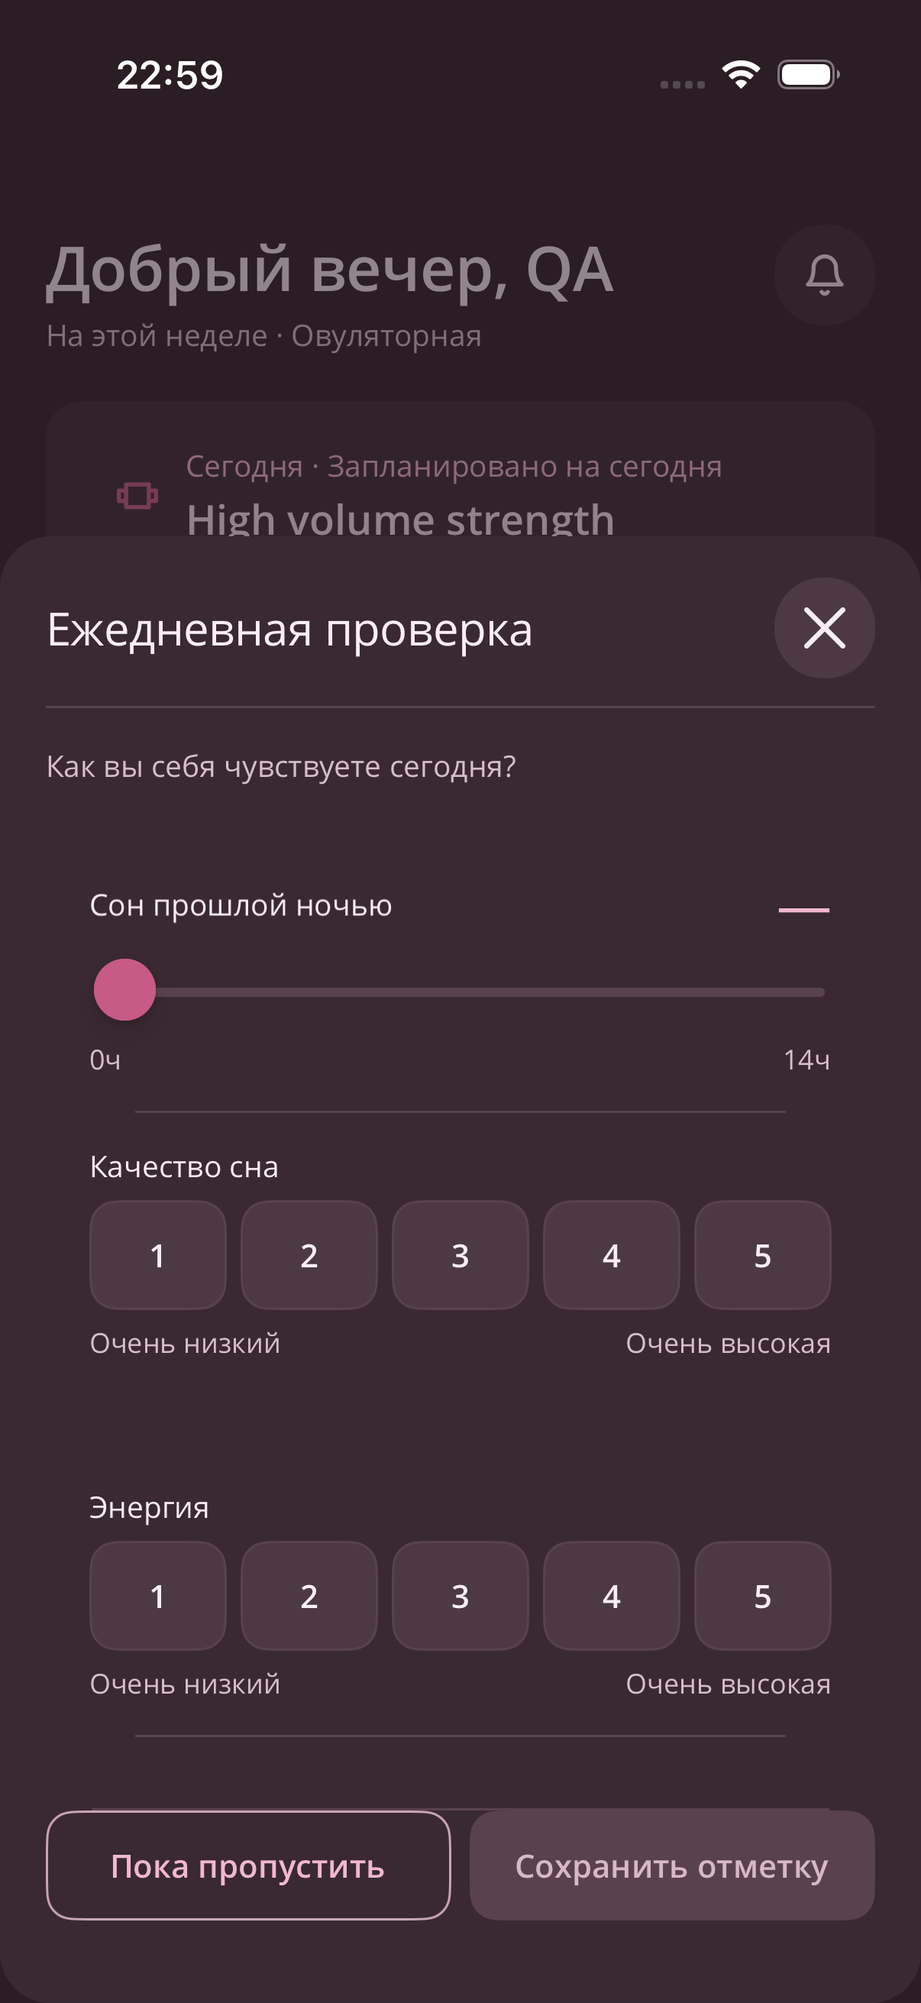
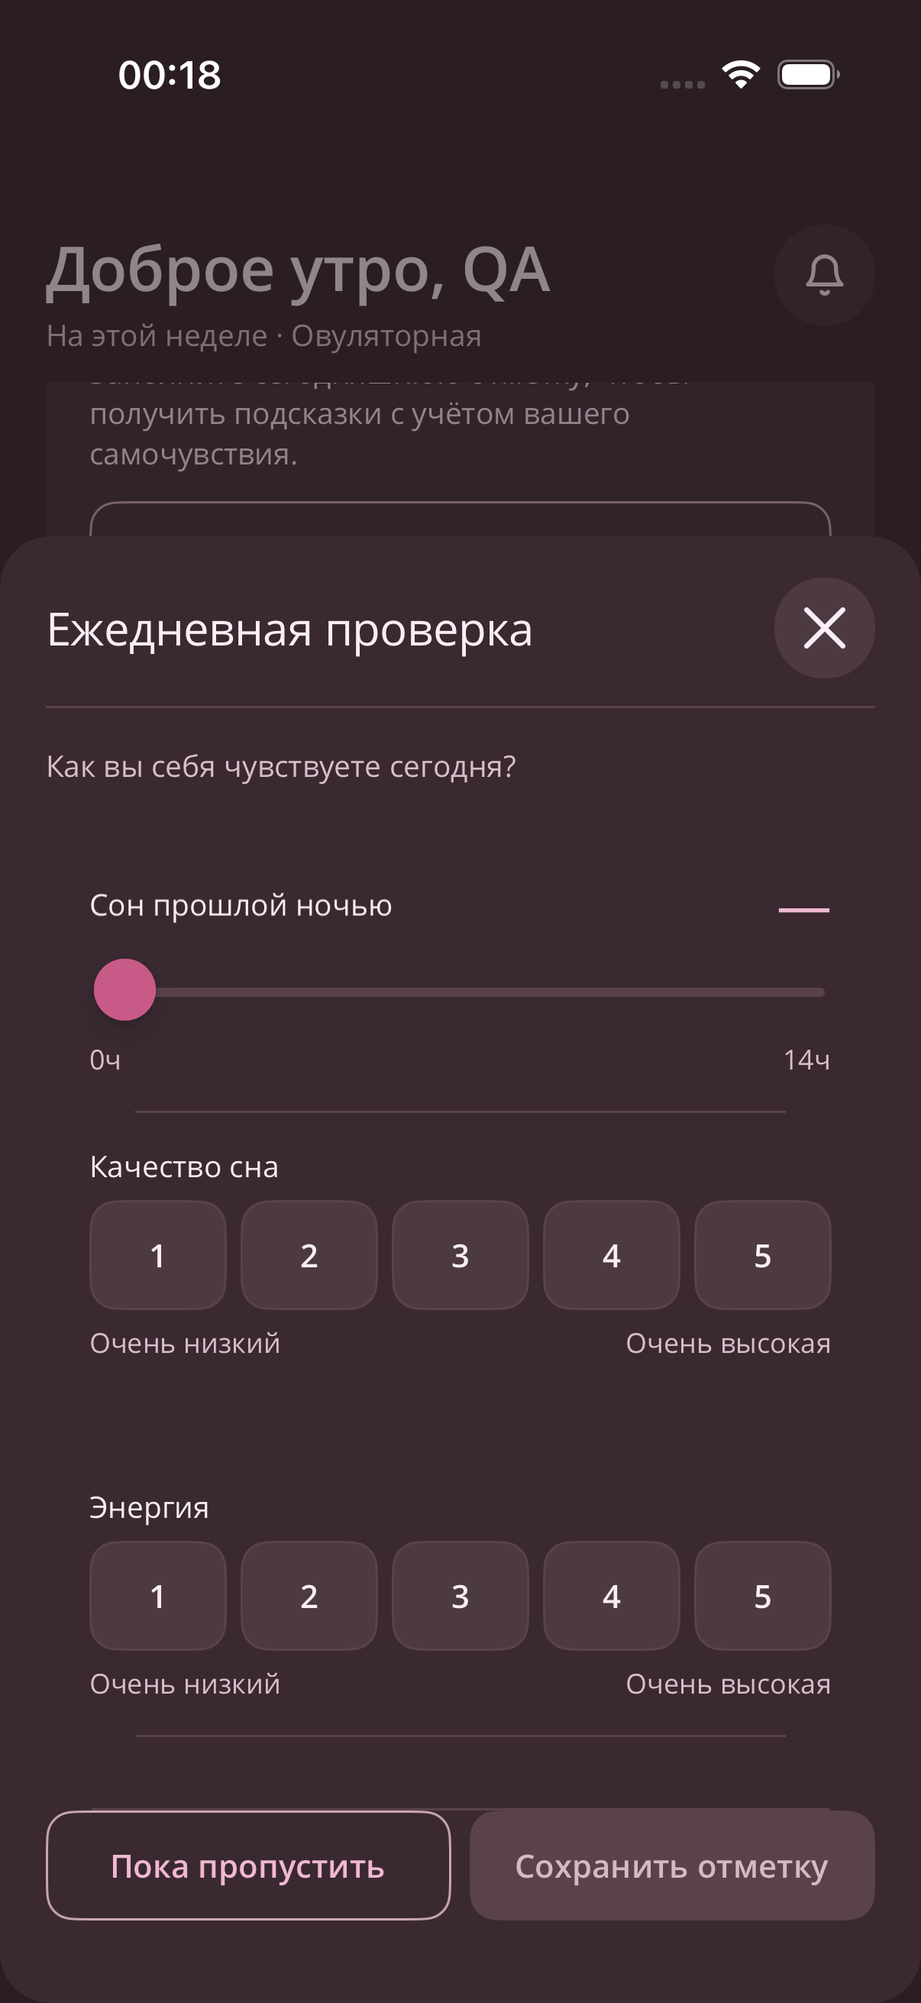
Open the nutrition diary from its header entry and prove the toast hosts
The `Дневник питания` label only simulated a link: a tap gesture on a label,
which the QA audit could not drive and which gave a dead end on the one page
that reaches the note-save toast. It is now a real Button in the `Еда` header
row with a click handler that routes to the diary and reports a visible
message if the route fails, guarded by a contract test.

The working path closes the last Wave A proof: notes save raises the toast on
the food log and on workout history, in both themes, above the tab bar and the
pinned sheet footer, and the check-in footer is captured at rest in dark.

diff --git a/src/MuscleCuties.UI/Pages/Nutrition/NutritionPage.xaml b/src/MuscleCuties.UI/Pages/Nutrition/NutritionPage.xaml
@@ -65,19 +65,14 @@
                             Text="{loc:LocalizedText Nutrition_Page_Meals}"
                             IconGlyph="BowlChopsticks24"
                             Margin="0" />
-                        <Label Grid.Column="1"
-                               Text="{loc:LocalizedText Nutrition_FoodLog_DailyFoodLog}"
-                               Style="{StaticResource AccentLabel}"
-                               MinimumHeightRequest="{StaticResource PresentationMinimumTouchSize}"
-                               VerticalTextAlignment="Center"
-                               HorizontalTextAlignment="End"
-                               LineBreakMode="WordWrap"
-                               SemanticProperties.Description="{loc:LocalizedText Nutrition_FoodLog_DailyFoodLog}"
-                               SemanticProperties.Hint="{loc:LocalizedText Nutrition_Page_OpensDailyFoodLog}">
-                            <Label.GestureRecognizers>
-                                <TapGestureRecognizer Command="{Binding NavigateToFoodLogCommand}" />
-                            </Label.GestureRecognizers>
-                        </Label>
+                        <Button Grid.Column="1"
+                                AutomationId="OpenFoodLog"
+                                Text="{loc:LocalizedText Nutrition_FoodLog_DailyFoodLog}"
+                                Style="{StaticResource ButtonSecondary}"
+                                HorizontalOptions="End"
+                                Clicked="OnOpenDailyFoodLogClicked"
+                                SemanticProperties.Description="{loc:LocalizedText Nutrition_FoodLog_DailyFoodLog}"
+                                SemanticProperties.Hint="{loc:LocalizedText Nutrition_Page_OpensDailyFoodLog}" />
                     </Grid>
 
                     <Border

diff --git a/tests/MuscleCuties.Core.Tests/UiContractGuardTests.cs b/tests/MuscleCuties.Core.Tests/UiContractGuardTests.cs
@@ -342,6 +342,46 @@ public sealed class UiContractGuardTests
     }
 
     /// <summary>
+    /// `Дневник питания` is a real button in the section header beside `Еда`, not a tap gesture, and it
+    /// routes through the page's click handler, which reports a visible message instead of failing
+    /// silently. The entry is checked by a cold-launch simulator run; this guard fails if it regresses.
+    /// </summary>
+    [Fact]
+    public void The_daily_log_entry_is_a_real_button_that_routes()
+    {
+        var root = RepositoryRoot();
+        var pagePath = Path.Combine(root, "src", "MuscleCuties.UI", "Pages", "Nutrition", "NutritionPage.xaml");
+        var document = XDocument.Load(pagePath);
+        XNamespace maui = "http://schemas.microsoft.com/dotnet/2021/maui";
+
+        var entry = document.Descendants()
+            .Single(element =>
+                string.Equals((string?)element.Attribute("AutomationId"), "OpenFoodLog", StringComparison.Ordinal));
+
+        Assert.Equal("Button", entry.Name.LocalName);
+        Assert.Equal("OnOpenDailyFoodLogClicked", (string?)entry.Attribute("Clicked"));
+        Assert.Equal("1", (string?)entry.Attributes().Single(attribute => attribute.Name.LocalName == "Grid.Column"));
+
+        // The design position: the section header beside `Еда`.
+        var header = entry.Parent;
+        Assert.NotNull(header);
+        Assert.Contains(
+            header!.Elements(),
+            sibling => sibling.Name.LocalName == "IconSectionHeader");
+
+        Assert.DoesNotContain(
+            document.Descendants(maui + "TapGestureRecognizer")
+                .Select(gesture => (string?)gesture.Attribute("Command")),
+            command => command?.Contains("NavigateToFoodLog", StringComparison.Ordinal) == true);
+
+        var codeBehind = File.ReadAllText(
+            Path.Combine(root, "src", "MuscleCuties.UI", "Pages", "Nutrition", "NutritionPage.xaml.cs"));
+        Assert.Contains("OnOpenDailyFoodLogClicked", codeBehind, StringComparison.Ordinal);
+        Assert.Contains("GoToAsync(NutritionNavigation.FoodLogRoute)", codeBehind, StringComparison.Ordinal);
+        Assert.Contains("ReportDiaryNavigationFailure", codeBehind, StringComparison.Ordinal);
+    }
+
+    /// <summary>
     /// A Debug build points at `http://127.0.0.1:5080`. When that API is down or has no migrated
     /// catalogue it answers with an empty page, and the picker showed a permanent no-match state with
     /// no rows to tap (D51's root cause). The loopback store must therefore be able to fill the gap.

diff --git a/src/MuscleCuties.UI/ViewModels/Nutrition/NutritionViewModel.cs b/src/MuscleCuties.UI/ViewModels/Nutrition/NutritionViewModel.cs
@@ -1,4 +1,5 @@
 using System.Collections.ObjectModel;
+using System.Diagnostics;
 using System.Diagnostics.CodeAnalysis;
 using System.Globalization;
 using CommunityToolkit.Mvvm.ComponentModel;
@@ -6,6 +7,7 @@ using CommunityToolkit.Mvvm.Input;
 using MuscleCuties.Core.Models.Enums.Cycle;
 using MuscleCuties.Core.Models.Enums.Nutrition;
 using MuscleCuties.UI.Models.UI.Cycle;
+using MuscleCuties.UI.Navigation;
 using MuscleCuties.UI.Models.UI.Nutrition;
 using MuscleCuties.UI.Services.Formatting;
 using MuscleCuties.UI.Services.Dashboard;
@@ -662,9 +664,23 @@ public partial class NutritionViewModel : ObservableObject, IPageLoadAware, IDis
     [RelayCommand]
     public async Task NavigateToFoodLogAsync()
     {
-        if (_navigateAsync is not null)
-            await _navigateAsync("FoodLogPage");
+        if (_navigateAsync is null)
+            return;
+
+        try
+        {
+            await _navigateAsync(NutritionNavigation.FoodLogRoute);
+        }
+        catch (Exception exception)
+        {
+            Trace.TraceError($"[Nutrition] Food log navigation failed: {exception.GetType().Name}");
+            ReportDiaryNavigationFailure();
+        }
     }
+
+    /// <summary>A dead entry point states so instead of leaving the page unchanged and silent.</summary>
+    public void ReportDiaryNavigationFailure() =>
+        ShowPageStatus(UiTextCatalog.Get("Ui_Nutrition_Error_LoadFoods"));
 
     public void Dispose()
     {

diff --git a/src/MuscleCuties.UI/Pages/Nutrition/NutritionPage.xaml.cs b/src/MuscleCuties.UI/Pages/Nutrition/NutritionPage.xaml.cs
@@ -32,6 +32,19 @@ public partial class NutritionPage : ContentPage
         this.BeginDeferredLoad(LoadDeferredCardsAsync);
     }
 
+    private async void OnOpenDailyFoodLogClicked(object? sender, EventArgs e)
+    {
+        try
+        {
+            await Shell.Current.GoToAsync(NutritionNavigation.FoodLogRoute);
+        }
+        catch (Exception exception)
+        {
+            Trace.TraceError($"[Nutrition] Diary navigation failed: {exception.GetType().Name}");
+            _viewModel.ReportDiaryNavigationFailure();
+        }
+    }
+
     private async Task LoadDeferredCardsAsync()
     {
         await PhaseFocusLazy.LoadIfNeededAsync(true);

diff --git a/STATUS.md b/STATUS.md
@@ -2,74 +2,86 @@
 
 ## 1. Changed files
 
-Nine commits on `fix/qa-audit-followups`; the D54 fix stays its own commit.
+Nine commits stand unchanged on the branch, plus this pass on top of `41bb3f6f`:
 
-- `19887dca` — restored `docs/release-audit/2026-11-05/WORKOUT_POLICY.md` (D16).
-- `cd65f85d` — one 24-hour `MealTime` formatter (D48's 12-hour half).
-- `3a2daf1e` — the pre-existing shared-primitives base.
-- `f28aa3b1` — **D54**, meal card header gap.
-- `3b55255c` — modal frame: `ModalKeyboardInset`, one scroll body, keyboard padding.
-- `7023dc81` — reveal content under the focused field, 12 pt sheet footer reserve, toast clearance
-  token, picker search mode.
-- this pass (`Wave A close-out`), uncommitted until the commit below:
-  - `Controls/Shared/AnimatedModalView.cs` — `FindScrollBody` reuses a sheet's own nested `ScrollView`
-    instead of wrapping it (the check-in sheet's pinned footer was being pushed off-screen by a
-    second body).
-  - `Resources/Styles/Styles.xaml` — `PresentationPageContentPadding` bottom 32 → 96 so page content
-    clears the floating tab bar (D37 at rest).
-  - `Controls/Nutrition/MealEditorModal.xaml` — named rows for search mode; the search pane gets an
-    opaque background so the ingredient list cannot show through real result rows.
-  - `Controls/Nutrition/MealEditorModal.xaml.cs` — search mode on focus/blur; submit no longer
-    unfocuses the field.
-  - `ViewModels/Nutrition/NutritionViewModel.Search.cs` / `.Notifications.cs` — 400 ms debounced
-    search on typing, so hits appear while the keys are up (D51).
-  - `Services/Nutrition/LoopbackFoodCatalogSearchStore.cs` (new), `UseCases/.../DevelopmentFoodCatalog.cs`
-    (new), `Composition/ApplicationCompositionExtensions.cs` — a Debug loopback build falls back to a
-    synthetic catalogue when the local API answers empty; production and Beta keep the cloud store.
-  - `tests/MuscleCuties.Core.Tests/DevelopmentFoodCatalogTests.cs` (4 tests),
-    `UiContractGuardTests.cs` (+4 guards).
+- `src/MuscleCuties.UI/Pages/Nutrition/NutritionPage.xaml` — the `Дневник питания` entry is a real
+  `Button` (`AutomationId="OpenFoodLog"`, `ButtonSecondary`, `HorizontalOptions="End"`) in the `Еда`
+  section header beside `IconSectionHeader`, wired to `Clicked="OnOpenDailyFoodLogClicked"`. The
+  previous `Label` + `TapGestureRecognizer` is gone.
+- `src/MuscleCuties.UI/Pages/Nutrition/NutritionPage.xaml.cs` — `OnOpenDailyFoodLogClicked` routes
+  through `Shell.Current.GoToAsync(NutritionNavigation.FoodLogRoute)` and calls
+  `ReportDiaryNavigationFailure()` on any exception, so a dead route states itself.
+- `src/MuscleCuties.UI/ViewModels/Nutrition/NutritionViewModel.cs` — `NavigateToFoodLogAsync` routes
+  through `NutritionNavigation.FoodLogRoute`, logs and reports failures; new
+  `ReportDiaryNavigationFailure()`.
+- `tests/MuscleCuties.Core.Tests/UiContractGuardTests.cs` — `The_daily_log_entry_is_a_real_button_that_routes`:
+  the entry is a `Button` in the `Еда` header (sibling `IconSectionHeader`), carries the click handler,
+  no `NavigateToFoodLog` gesture remains, and the handler routes and reports.
+- `QA_REPORT.md` — D50 closed with the new screenshots; case 70 (toast placement) moved to PASS.
+- `STATUS.md` — this file.
+
+Evidence copied into `docs/qa-evidence/wave-a/`:
+
+| File | What it proves |
+| --- | --- |
+| `nutrition-diary-entry-light.png` | `Дневник питания` as a button in the `Еда` row, beside `Добавить приём пищи` / `План на день` |
+| `diary-cold-single-tap-light.png` | diary open after a cold launch and a single tap on that entry |
+| `toast-foodlog-notes-light.png`, `toast-foodlog-notes-dark.png` | `Заметки сохранены.` raised by `Сохранить заметки` on the food log, above the tab bar, both themes |
+| `toast-workouthistory-notes-light.png`, `toast-workouthistory-notes-dark.png` | `Заметки и РПП обновлены.` raised by `Сохранить заметки и РПП` on a history session, above the pinned sheet footer, both themes |
+| `checkin-sheet-footer-dark.png` | check-in sheet footer at rest in dark (`Пока пропустить` / `Сохранить отметку`) next to the existing light frame |
 
 ## 2. Test commands and output
 
 ```
 dotnet build src/MuscleCuties.UI/MuscleCuties.UI.csproj -c Debug -f net10.0-ios -p:RuntimeIdentifier=iossimulator-arm64
-    0 Warning(s)    0 Error(s)
+    0 Warning(s)
+    0 Error(s)
 
 dotnet test tests/MuscleCuties.Core.Tests
-Passed!  - Failed: 0, Passed: 1391, Skipped: 0, Total: 1391
+Passed!  - Failed: 0, Passed: 1392, Skipped: 0, Total: 1392
 
 dotnet test tests/MuscleCuties.Core.Tests --filter "UiContractGuard|UiStyleGate"
-Passed!  - Failed: 0, Passed: 33, Skipped: 0, Total: 33
+Passed!  - Failed: 0, Passed: 34, Skipped: 0, Total: 34
 ```
 
-Screenshots in `docs/qa-evidence/wave-a/`:
+Guard red, then green (the entry reverted to `41bb3f6f`'s `Label`, then restored):
 
-| File | What it proves |
-| --- | --- |
-| `picker-keyboard-hit-light.png`, `picker-keyboard-hit-dark.png` | picker with `chicken` typed, keyboard up, `Поиск` and real rows (`Chicken feet`, `Chicken skin`) on screen |
-| `picker-first-result-selected-light.png`, `picker-first-result-selected-dark.png` | tapping the first row lands on the portion sheet for `Chicken feet`, keyboard still up |
-| `checkin-sheet-footer-light.png`, `checkin-sheet-footer-dark.png` | check-in sheet with `Пока пропустить` / `Сохранить отметку` inside the reserved footer, above the home indicator |
-| `checkin-button-clear-of-tabbar-light.png` | `Заполнить отметку` fully above the floating tab bar after the padding fix |
-| `entry-sheet-light.png`, `entry-sheet-dark.png` | entry sheet with its actions inside the sheet; time reads `23:26` |
-| `editor-sheet-footer-light.png`, `editor-sheet-footer-dark.png` | editor with `Отмена` / `Приём пищи` pinned inside the sheet |
-| `breakdown-sheet-light.png`, `breakdown-sheet-dark.png` | breakdown sheet, no tab-bar or footer overlap |
-| `P6-foodlog-cards-light.png`, `Q9-foodlog-cards-dark.png` | D54 meal card header in both themes |
-| `Q12`–`Q14` | the earlier no-match picker states, kept as before/after for D51 |
+```
+=== RED (entry reverted to HEAD) ===
+   at System.Linq.Enumerable.Single[TSource](IEnumerable`1 source, Func`2 predicate)
+Failed!  - Failed: 1, Passed: 0, Skipped: 0, Total: 1
+=== GREEN (entry restored) ===
+Passed!  - Failed: 0, Passed: 1, Skipped: 0, Total: 1
+```
+
+Simulator, cold launch, one tab tap, one tap on `id: OpenFoodLog`, assertion on `Вода`:
+
+```
+maestro test flows/T39.yaml   run 1 exit=0 0 failures
+maestro test flows/T39.yaml   run 2 exit=0 0 failures
+maestro test flows/T39.yaml   run 3 exit=0 0 failures
+```
+
+Instrumented run (temporary data-directory probe, removed before the commit) recorded the layer on a
+cold launch: `enter source=Push target=FoodLogPage`, `pass-through verified=True`,
+`FoodLogPage ctor`, `navigated Push location=//MainTab/NutritionPage/FoodLogPage page=FoodLogPage`,
+`after await current=//MainTab/NutritionPage/FoodLogPage`. The shell pushed, the page was constructed
+and shown; earlier screenshots had caught the push mid-animation.
 
 ## 3. Not verified, and why
 
-- **Toast (D50, D32) is still open.** Both hosts only show a toast on a failed request; the local API is
-  healthy, and `FoodLogPage`'s daily-log link does not respond to taps in this build, so the notes-save
-  toast could not be triggered. No toast screenshot exists, so D50 is not claimed closed.
-- **`FoodLogPage` entry is unreachable from the Nutrition page** — the `Дневник питания` label does not
-  navigate, by text tap or by point tap. This is a separate finding to triage, not fixed here.
-- The picker search for a real hit required a local catalogue: the loopback API answers `401` without a
-  local session and the local Postgres databases have no schema (`\dt` → no relations), so the Debug
-  fallback catalogue is what the picker shows. That fallback does not exist in Beta or Production.
-- Dark screenshots of the check-in sheet, entry sheet, editor and breakdown exist; the check-in
-  **button at rest** is only photographed in light.
+- The diary was only photographed in light; the dark frame is the pre-existing `foodlog-dark.png`, not a
+  fresh cold-launch capture.
+- Toast screenshots were taken against the branch build immediately before the entry was restyled from
+  its temporary link treatment to `ButtonSecondary`; that restyle touches only the Nutrition header, and
+  the food-log toast was re-captured after it (`toast-foodlog-notes-light.png`). The dark food-log and
+  both workout-history frames pre-date that two-file change.
+- The D32 quick-log save-bar case was not re-driven in this pass; the toast capture covers the
+  `WorkoutHistoryPage` host, not the cycle quick-log sheet.
+- Maestro's `takeScreenshot` returns while the Shell push is still animating, so navigation frames are
+  captured with `simctl io screenshot` after the flow instead.
 
 ## 4. Next step
 
-Trigger a real toast: reach `FoodLogPage` (fix the dead daily-log link first) and save notes, then capture
-the banner in both themes. After that, close Wave A and move to the cycle wave.
+Close the cycle wave (D27–D40): quick-log save bar, legend truthfulness, phase-explorer copy. Then
+re-shoot the diary in dark on the current build.

diff --git a/QA_REPORT.md b/QA_REPORT.md
@@ -256,7 +256,7 @@ Nothing is marked PASS on code reading alone.
 | 67 | Nutrition history, save meal as template | Food Log, scrolled | Tap the star | Template saved, visible confirmation, list unchanged | Writes one `saved_meal_templates` row with the auto-name `Шаблон Завтрак (нояб. 13)` and shows the toast `Шаблон «…» сохранён.`; the list and the day totals are untouched. Row removed during cleanup | PASS | `M10-star-tap-light.png` |
 | 68 | Nutrition history, save notes with the field empty | Food Log, scrolled | Tap `Сохранить заметки` with the placeholder untouched | Validation or a disabled action | Reports `Заметки сохранены.` and writes nothing; the placeholder text is never an error and there is no dirty state, so success is claimed for a no-op (D47) | FAIL | `M6-foodlog-meal-tap-light.png` |
 | 69 | Nutrition cross-surface agreement | Breakfast saved (582 kcal) | Compare Nutrition, Food Log and Today | Same day agrees everywhere | Nutrition `582 / 2080`, Food Log `582 / 2080`, Today `582`; the same meal reads `32g / 45g / 29g` on Nutrition and `33г / 45г / 30г` on Food Log — agreement on energy, rounding drift on macros (D3) | PARTIAL | `M3-foodlog-light.png`, `M8-edit-from-log-light.png`, `C24-today-loaded-light.png` |
-| 70 | Toast placement | Any action that toasts | `Сохранить заметки`, star | Banner above the tab bar, fully readable | Banner is drawn over the content at the very bottom and overlaps the tab bar area; its second line is clipped by the screen edge (D50) | FAIL | `M6-foodlog-meal-tap-light.png`, `M10-star-tap-light.png` |
+| 70 | Toast placement | Any action that toasts | `Сохранить заметки`, `Сохранить заметки и РПП` | Banner above the tab bar, fully readable | Both hosts place the banner above the tab bar and the pinned sheet footer with the full text on one line, in light and dark (D50) | PASS | `toast-foodlog-notes-light.png`, `toast-foodlog-notes-dark.png`, `toast-workouthistory-notes-light.png`, `toast-workouthistory-notes-dark.png` |
 | 71 | Notes field with the keyboard up, light | Food Log, notes card | Tap the field, type `QA note keyboard test 14.11` | Label, field and `Сохранить заметки` stay visible above the keyboard | The page scrolls the card up; `Заметки`, all four typed lines and the save button sit fully above the keyboard. The keyboard's own `Готово` is stock iOS blue, off the app palette, but that is system chrome | PASS | `N5-notes-keyboard-focus-light.png` |
 | 72 | Keyboard dismissed mid-edit, light | Notes field focused, text typed | Tap `Готово` | Keyboard closes, text kept, page height and scroll restored | Text unchanged after dismissal; the full card and the meal list below return, tab labels visible again; nothing is saved or reset | PASS | `N6-notes-keyboard-dismissed-light.png` |
 | 73 | Notes field with the keyboard up, dark | Same, dark theme | Same | Same as light | Field, label and save button remain above the keyboard and the text stays legible on the dark card; the `Готово` accessory bar sits over the tab bar's labels (D50 family), not over the field | PASS | `N17-notes-keyboard-dark.png`, `N18-notes-keyboard-dismissed-dark.png` |
@@ -849,11 +849,14 @@ editor (`ё` present, then absent), plus `Тип приема пищи` in the e
 Evidence: `M1-entry-sheet-light.png`, `M2-editor-light.png`.
 
 ### D50 — P2 — Toast banners collide with the tab bar and clip their second line
-**Reproduced in the running app** (twice: notes save, template save). **Still open — code-level only.** Both
-toast hosts moved to the `UiInsets20_0_20_72` clearance token and the guard
-`Toast_hosts_clear_the_floating_tab_bar` fails if a host drops back to 20 pt, but no toast could be
-triggered for a screenshot: both hosts report only on failed requests, the local API is healthy, and the
-`Дневник питания` link that opens the notes host does not navigate in this build.
+**Closed and proved on screen** (Wave A close-out). Both hosts keep the `UiInsets20_0_20_72` clearance
+token (the guard `Toast_hosts_clear_the_floating_tab_bar` fails if a host drops back to 20 pt), and both
+were raised from real user actions in one cold launch each: `Сохранить заметки` on the food log
+(`Заметки сохранены.`) and `Сохранить заметки и РПП` on a workout-history session
+(`Заметки и РПП обновлены.`). Both banners sit above the tab bar and the sheet footer with their full
+text visible, in light and dark. The entry that reaches the notes host — `Дневник питания` — was also
+fixed: it is a real button in the `Еда` row and opens the diary on the first tap after a cold launch
+(`diary-cold-single-tap-light.png`).
 
 Repro: Food Log → tap `Сохранить заметки`, then tap the star on the meal card.
 Expected: a banner above the tab bar with its full text and safe-area padding.
